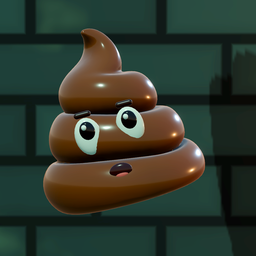
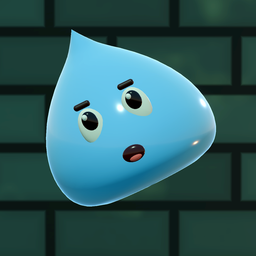
Update PLOP! support site

diff --git a/index.html b/index.html
@@ -4,7 +4,7 @@
 <meta charset="utf-8">
 <meta name="viewport" content="width=device-width, initial-scale=1">
 <title>PLOP! サポート</title>
-<meta name="description" content="PLOP! - うんち引っぱり登山 のサポートページ。遊び方、購入の復元、お問い合わせ先。">
+<meta name="description" content="PLOP! - しずく引っぱり登山 のサポートページ。遊び方、購入の復元、お問い合わせ先。">
 <link rel="icon" href="icon.png">
 <link rel="stylesheet" href="style.css">
 </head>
@@ -13,7 +13,7 @@
 <header>
 	<img src="icon.png" alt="">
 	<div>
-		<h1>PLOP! - うんち引っぱり登山</h1>
+		<h1>PLOP! - しずく引っぱり登山</h1>
 		<p class="sub">サポート</p>
 	</div>
 </header>
@@ -24,12 +24,12 @@
 	<a href="#en">English</a>
 </nav>
 
-<p>うんちを引っぱって飛ばし、はるか上にあるトイレを目指すゲームです。落ちたら、落ちたところから登り直し。</p>
+<p>水のしずくを引っぱって飛ばし、排水管の底からはるか上を目指すゲームです。落ちたら、落ちたところから登り直し。</p>
 
 <h2 id="faq">よくある質問</h2>
 <dl>
 	<dt>遊び方は？</dt>
-	<dd>うんちを指で引っぱって離すと、引っぱった方向と反対に飛びます。強く引くほど遠くへ。足場に乗ったら次のジャンプへ。</dd>
+	<dd>しずくを指で引っぱって離すと、引っぱった方向と反対に飛びます。強く引くほど遠くへ。足場に乗ったら次のジャンプへ。</dd>
 
 	<dt>どうしても登れない場所があります</dt>
 	<dd>落ちたときや、同じ場所で何度か失敗したときに出る「お手本」で、その場所の登り方を見られます。大きく落ちたときは「〇m地点にもどる」で落ちる前の地点に戻れます（巻き戻しは5分に1回まで）。どちらも短い広告を見ると使えます。</dd>
@@ -38,7 +38,7 @@
 	<dd>いいえ。登った位置は自動で保存され、次に開いたときに「つづきから」で再開できます。</dd>
 
 	<dt>広告を消したい</dt>
-	<dd>ショップの「PLOP! プレミアム」（買い切り）を購入すると、下のバナー広告が消え、巻き戻しとお手本が広告なしで使えます。うんちの見た目もすべて使えるようになります。</dd>
+	<dd>ショップの「PLOP! プレミアム」（買い切り）を購入すると、下のバナー広告が消え、巻き戻しとお手本が広告なしで使えます。しずくの見た目もすべて使えるようになります。</dd>
 
 	<dt>機種変更・再インストールで購入が消えた</dt>
 	<dd>ショップの「購入を復元」を押してください。購入時と同じ Apple アカウントでサインインしていれば、プレミアムとスキンパックが戻ります。</dd>
@@ -63,7 +63,7 @@
 <hr>
 <section id="en" lang="en">
 <h2>Support (English)</h2>
-<p>PLOP! is a climbing game: pull the jelly poop back, let go, and climb to a toilet way up high.</p>
+<p>PLOP! is a climbing game: pull the water droplet back, let go, and climb from the bottom of the drain to the top, way up high.</p>
 <dl>
 	<dt>Restore purchases</dt>
 	<dd>Open the shop and tap 「購入を復元」 (Restore Purchases) while signed in with the Apple Account you bought with.</dd>

diff --git a/privacy.html b/privacy.html
@@ -4,7 +4,7 @@
 <meta charset="utf-8">
 <meta name="viewport" content="width=device-width, initial-scale=1">
 <title>PLOP! プライバシーポリシー</title>
-<meta name="description" content="PLOP! - うんち引っぱり登山 のプライバシーポリシー。">
+<meta name="description" content="PLOP! - しずく引っぱり登山 のプライバシーポリシー。">
 <link rel="icon" href="icon.png">
 <link rel="stylesheet" href="style.css">
 </head>
@@ -14,7 +14,7 @@
 	<img src="icon.png" alt="">
 	<div>
 		<h1>プライバシーポリシー</h1>
-		<p class="sub">PLOP! - うんち引っぱり登山</p>
+		<p class="sub">PLOP! - しずく引っぱり登山</p>
 	</div>
 </header>
 <nav>
@@ -24,7 +24,7 @@
 
 <p class="meta">制定日：2026年10月13日（トラッキングの許可について追記）</p>
 
-<p>Rikuto Yasuda（以下「運営者」）は、iPhone 向けゲーム「PLOP! - うんち引っぱり登山」（以下「本アプリ」）での利用者の情報の取り扱いを、次のとおり定めます。</p>
+<p>Rikuto Yasuda（以下「運営者」）は、iPhone 向けゲーム「PLOP! - しずく引っぱり登山」（以下「本アプリ」）での利用者の情報の取り扱いを、次のとおり定めます。</p>
 
 <h2>1. 運営者が集める情報</h2>
 <p>運営者は、本アプリを通じて利用者の個人情報を集めていません。アカウント登録はなく、運営者のサーバーへ情報を送ることもありません。</p>
@@ -69,7 +69,7 @@
 <section id="en" lang="en">
 <h2>Privacy Policy (English)</h2>
 <p class="meta">Effective: October 13, 2026</p>
-<p>This policy explains how Rikuto Yasuda ("we") handles information in the iPhone game "PLOP! - うんち引っぱり登山" (the "App").</p>
+<p>This policy explains how Rikuto Yasuda ("we") handles information in the iPhone game "PLOP! - しずく引っぱり登山" (the "App").</p>
 <h3>Information we collect</h3>
 <p>We do not collect personal information. The App has no accounts and sends nothing to our servers. Records, progress, chosen looks and sound/vibration settings are stored only on your device and are deleted when you delete the App.</p>
 <h3>Advertising (Google AdMob)</h3>
